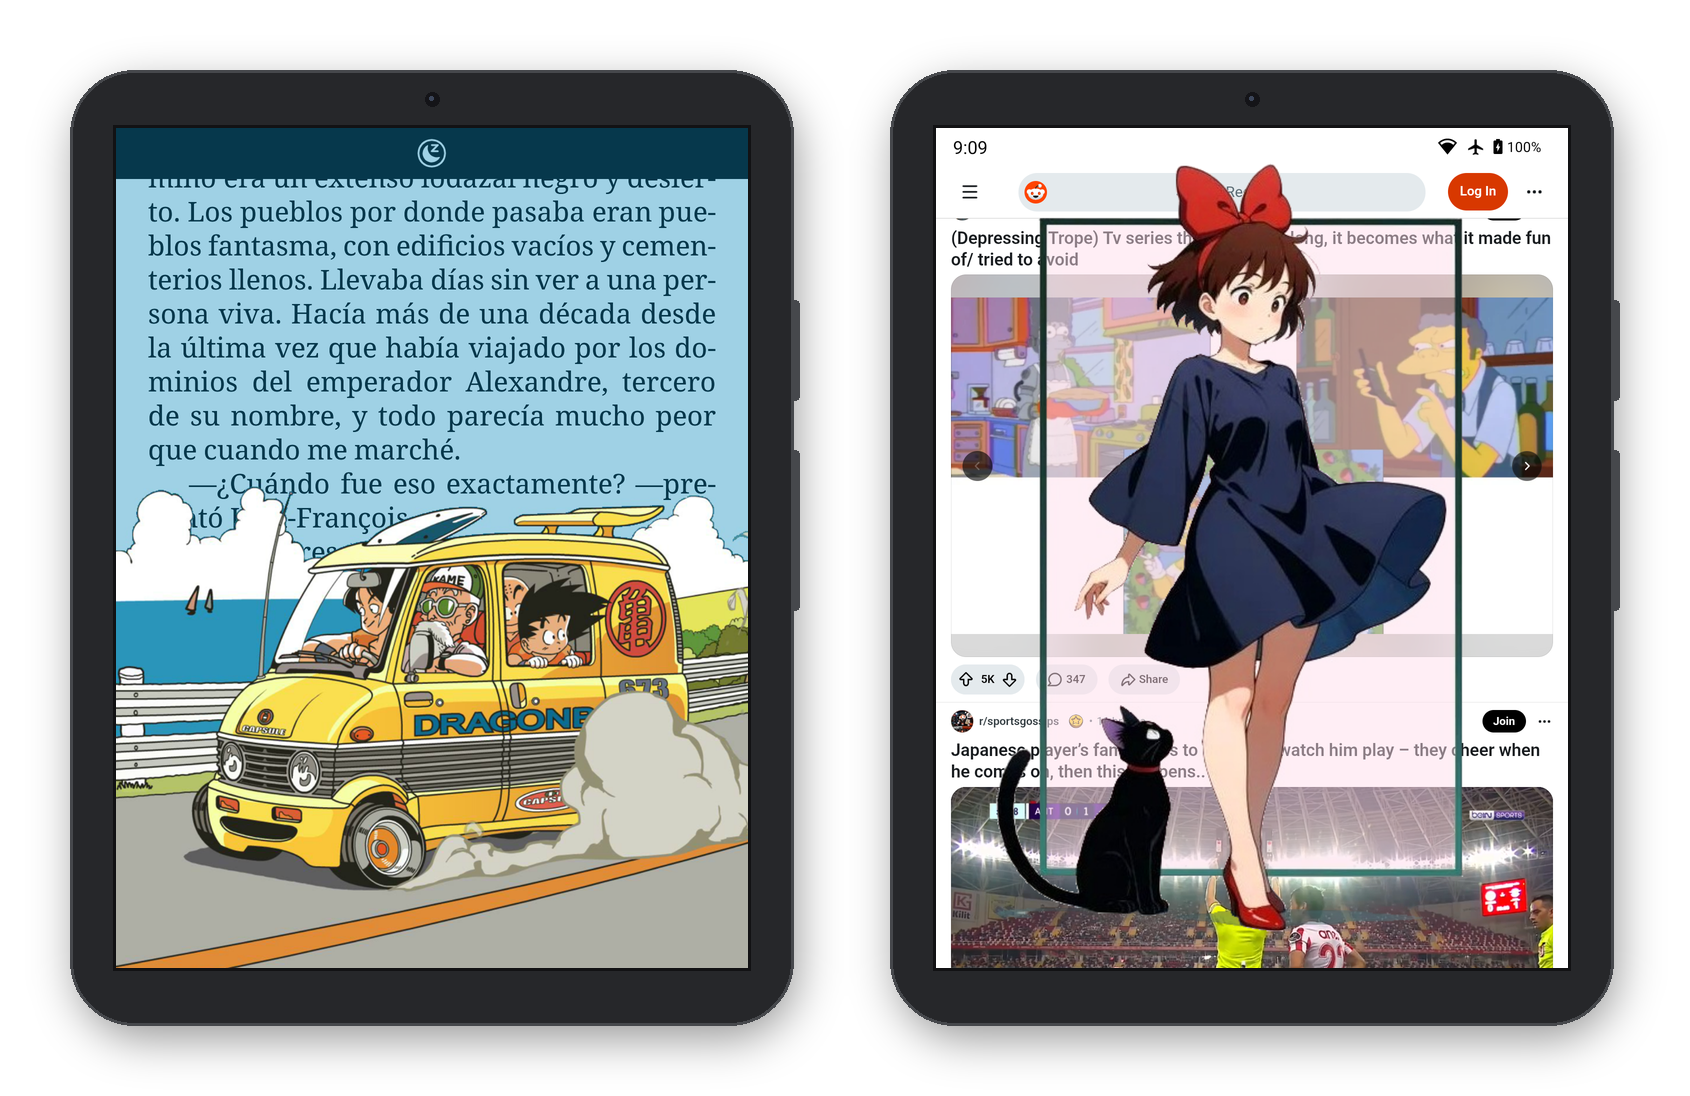
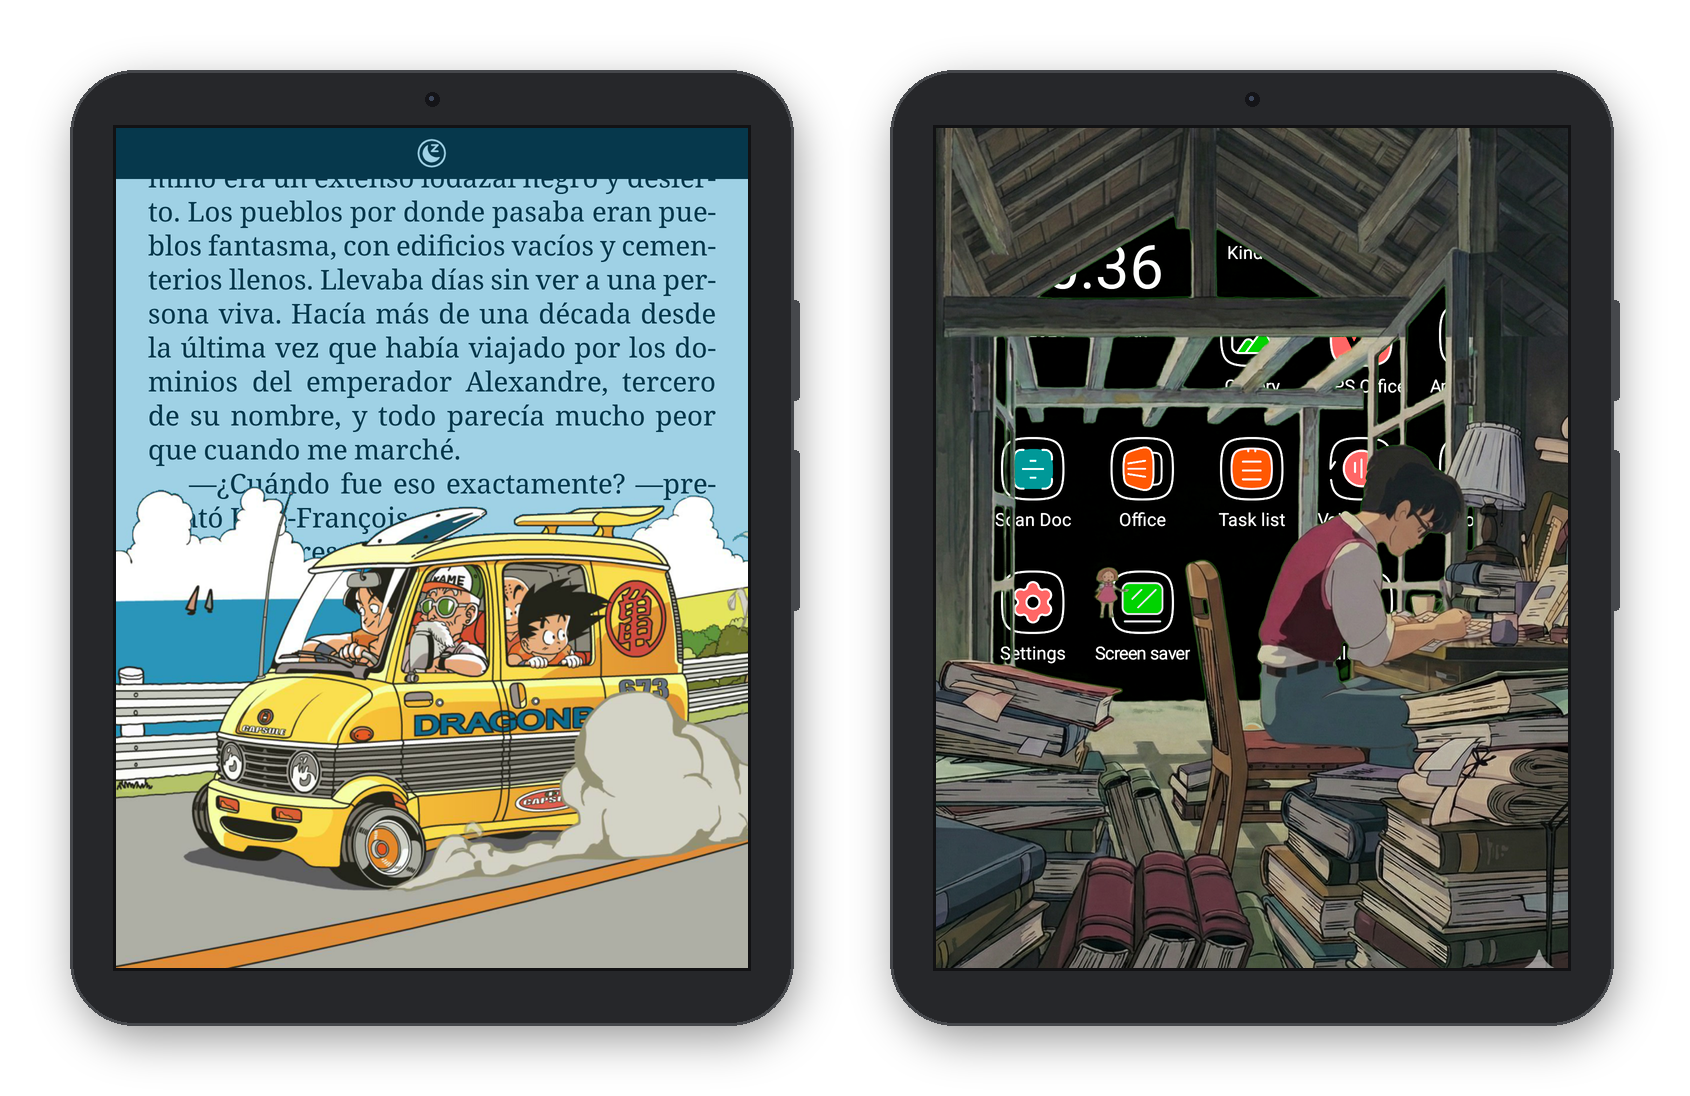
Show Bigme's dark mode in the README demo image

Changed region(s): [[0.5538, 0.0931, 0.9538, 0.8996]]

diff --git a/README.md b/README.md
@@ -4,7 +4,7 @@
 
 **A custom sleep screen for the Bigme B7: your last page, with your own image on top.**
 
-![Locker sleep screens on a Bigme B7: a book page and a Reddit feed, each with a custom image on top](docs/demo.png)
+![Locker sleep screens on a Bigme B7: a book page with a custom image on top, and the home screen in Bigme's dark mode with an image that keeps its original colors](docs/demo.png)
 
 I wanted the sleep screen on my Bigme B7 to show what I was reading, with a little image of my choice on top, instead of the default calendar. The stock options are a clock, a calendar, a picture or "transparent", and none of them do that. So I built a small app that does.
 
